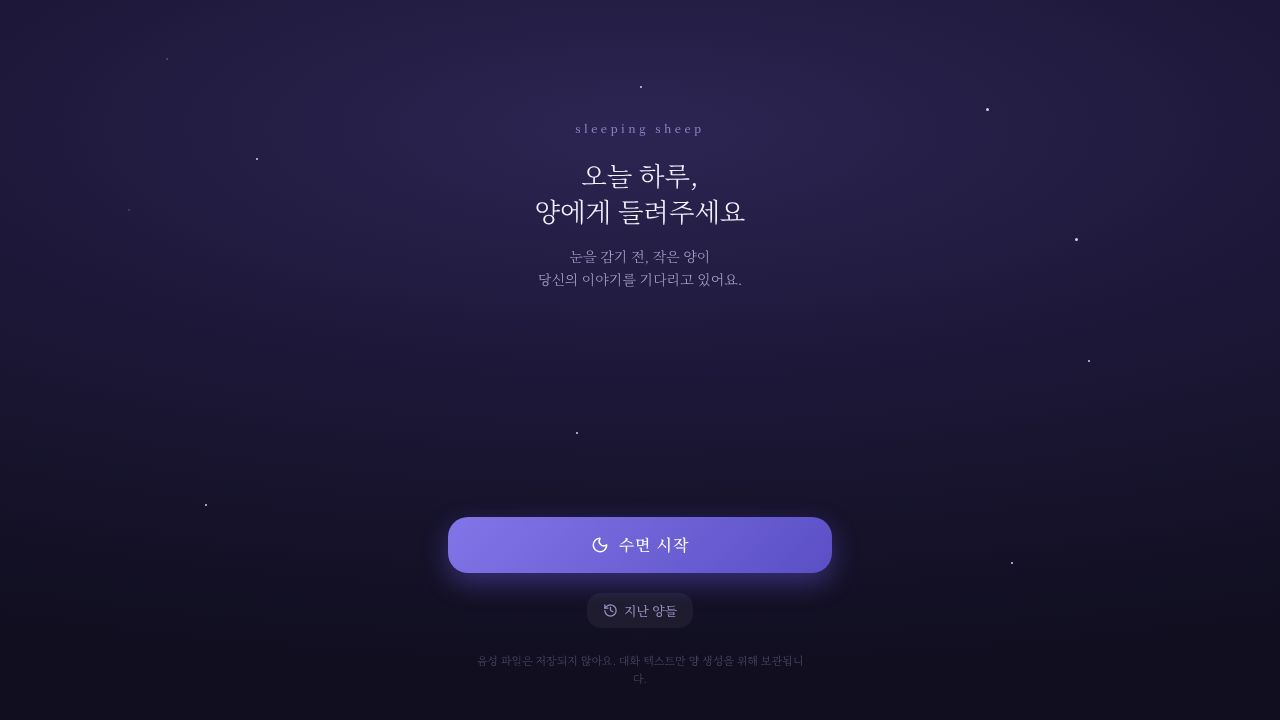
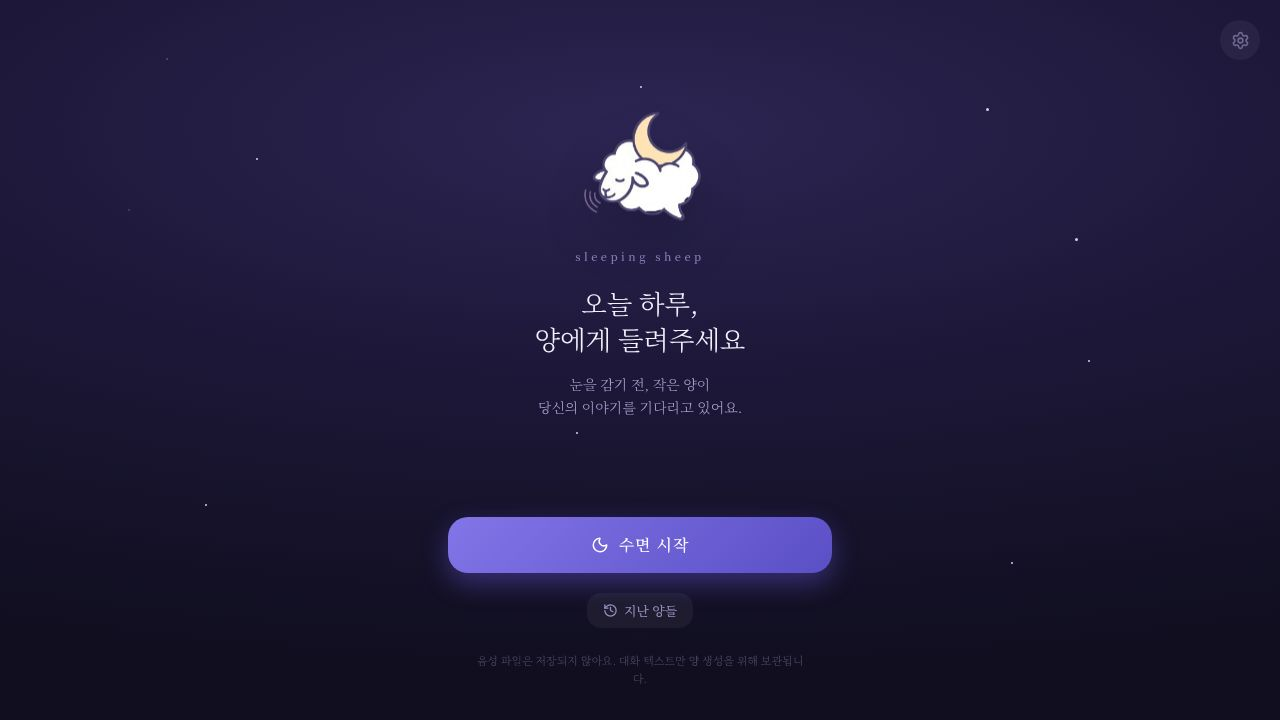
Adapt button colors to match the day or night theme
Update CSS variables and component styles to conditionally apply button gradients, shadows, and text colors based on the selected theme, ensuring visual consistency across the application.

Replit-Commit-Author: Agent
Replit-Commit-Session-Id: 9c5b6b75-73b5-4b94-910b-e9fdf67671b4
Replit-Commit-Checkpoint-Type: full_checkpoint
Replit-Commit-Event-Id: 04f7d26a-5a67-43ef-9956-019a70584ed0
Replit-Commit-Screenshot-Url: https://storage.googleapis.com/screenshot-production-us-central1/6777ac66-1c97-438c-a6ea-a04e304da69b/9c5b6b75-73b5-4b94-910b-e9fdf67671b4/XXbscMy
Replit-Helium-Checkpoint-Created: true

Changed region(s): [[0.4062, 0.3361, 0.5938, 0.4889], [0.4062, 0.1528, 0.5938, 0.3056], [0.4062, 0.5194, 0.5625, 0.5806]]

diff --git a/artifacts/sleeping-sheep/src/pages/sheep-result.tsx b/artifacts/sleeping-sheep/src/pages/sheep-result.tsx
@@ -13,7 +13,7 @@ import { useSettings } from "@/lib/settings";
 export default function SheepResultScreen() {
   const [, params] = useRoute("/sheep/:id");
   const [, setLocation] = useLocation();
-  const { t, dateLocale } = useSettings();
+  const { t, dateLocale, isNight } = useSettings();
   const id = params?.id ? parseInt(params.id) : 0;
 
   const { data: sheep, isLoading } = useGetSheep(id, {
@@ -131,11 +131,20 @@ export default function SheepResultScreen() {
       <div className="flex flex-col space-y-3 w-full mt-auto">
         <Button
           onClick={() => setLocation(`/rest/${id}`)}
-          className="w-full py-5 rounded-2xl text-white hover:scale-[1.01] transition-transform duration-500"
-          style={{
-            background: "linear-gradient(135deg, #8275e8 0%, #5b4fc6 100%)",
-            boxShadow: "0 10px 26px rgba(108,88,224,0.35)",
-          }}
+          className="w-full py-5 rounded-2xl hover:scale-[1.01] transition-transform duration-500"
+          style={
+            isNight
+              ? {
+                  background: "linear-gradient(135deg, #8275e8 0%, #5b4fc6 100%)",
+                  boxShadow: "0 10px 26px rgba(108,88,224,0.35)",
+                  color: "#ffffff",
+                }
+              : {
+                  background: "linear-gradient(135deg, #e3b063 0%, #cf9445 100%)",
+                  boxShadow: "0 10px 26px rgba(176,124,51,0.3)",
+                  color: "#3a2a12",
+                }
+          }
         >
           {t.sheepResult.sleepNow}
         </Button>

diff --git a/artifacts/sleeping-sheep/src/pages/home.tsx b/artifacts/sleeping-sheep/src/pages/home.tsx
@@ -51,6 +51,9 @@ export default function Home() {
         privacy: "rgba(170,163,210,0.4)",
         gear: "rgba(170,163,210,0.55)",
         gearBg: "rgba(255,255,255,0.05)",
+        buttonBg: "linear-gradient(135deg, #8275e8 0%, #5b4fc6 100%)",
+        buttonShadow: "0 10px 26px rgba(108,88,224,0.42)",
+        buttonText: "#ffffff",
       }
     : {
         background:
@@ -63,6 +66,9 @@ export default function Home() {
         privacy: "rgba(110,94,72,0.5)",
         gear: "rgba(110,94,72,0.6)",
         gearBg: "rgba(0,0,0,0.05)",
+        buttonBg: "linear-gradient(135deg, #e3b063 0%, #cf9445 100%)",
+        buttonShadow: "0 10px 26px rgba(176,124,51,0.3)",
+        buttonText: "#3a2a12",
       };
 
   return (
@@ -132,10 +138,11 @@ export default function Home() {
           <button
             onClick={handleStart}
             disabled={isStarting}
-            className="w-full h-14 rounded-[20px] text-white text-base font-medium tracking-[0.06em] flex items-center justify-center gap-2.5 transition-transform duration-300 hover:scale-[1.015] active:scale-[0.99] disabled:opacity-70"
+            className="w-full h-14 rounded-[20px] text-base font-medium tracking-[0.06em] flex items-center justify-center gap-2.5 transition-transform duration-300 hover:scale-[1.015] active:scale-[0.99] disabled:opacity-70"
             style={{
-              background: "linear-gradient(135deg, #8275e8 0%, #5b4fc6 100%)",
-              boxShadow: "0 10px 26px rgba(108,88,224,0.42)",
+              background: colors.buttonBg,
+              boxShadow: colors.buttonShadow,
+              color: colors.buttonText,
             }}
           >
             {isStarting ? (

diff --git a/artifacts/sleeping-sheep/src/index.css b/artifacts/sleeping-sheep/src/index.css
@@ -124,8 +124,8 @@
   --popover-foreground: 30 22% 24%;
   --popover-border: 38 24% 80%;
 
-  --primary: 252 42% 52%;
-  --primary-foreground: 40 42% 96%;
+  --primary: 32 58% 44%;
+  --primary-foreground: 40 42% 97%;
 
   --secondary: 38 30% 85%;
   --secondary-foreground: 30 22% 26%;
@@ -140,7 +140,7 @@
   --accent-foreground: 30 22% 24%;
 
   --input: 38 24% 78%;
-  --ring: 252 42% 52%;
+  --ring: 32 58% 44%;
 
   color-scheme: light;
 }